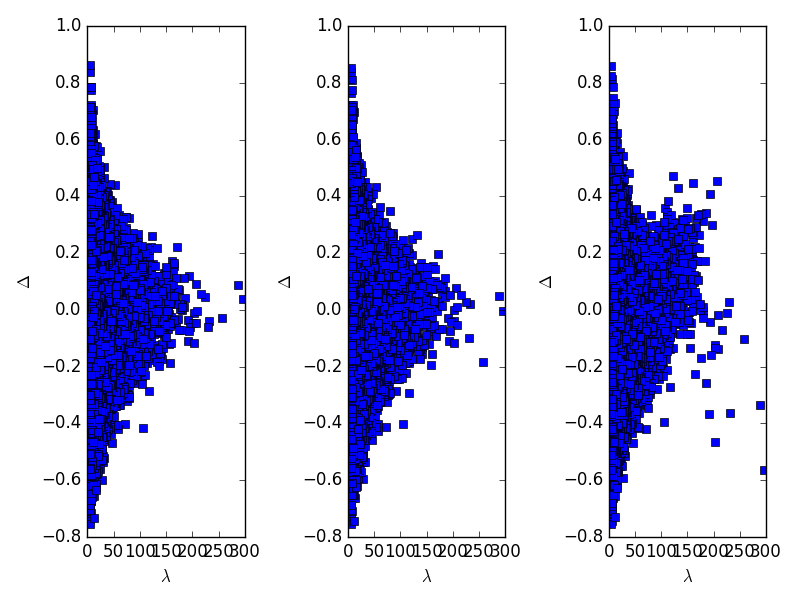
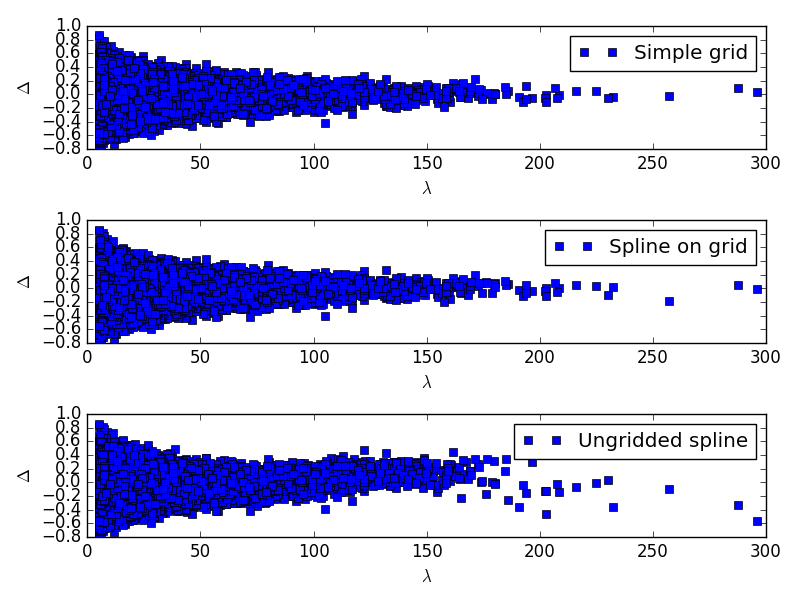
nicer plots

diff --git a/README.md b/README.md
@@ -7,3 +7,5 @@ Questions:
 2.  Simple grid?  Spline on grid?  Ungridded spline?
 
 3.  What grid to use?
+
+4.  What output format?
